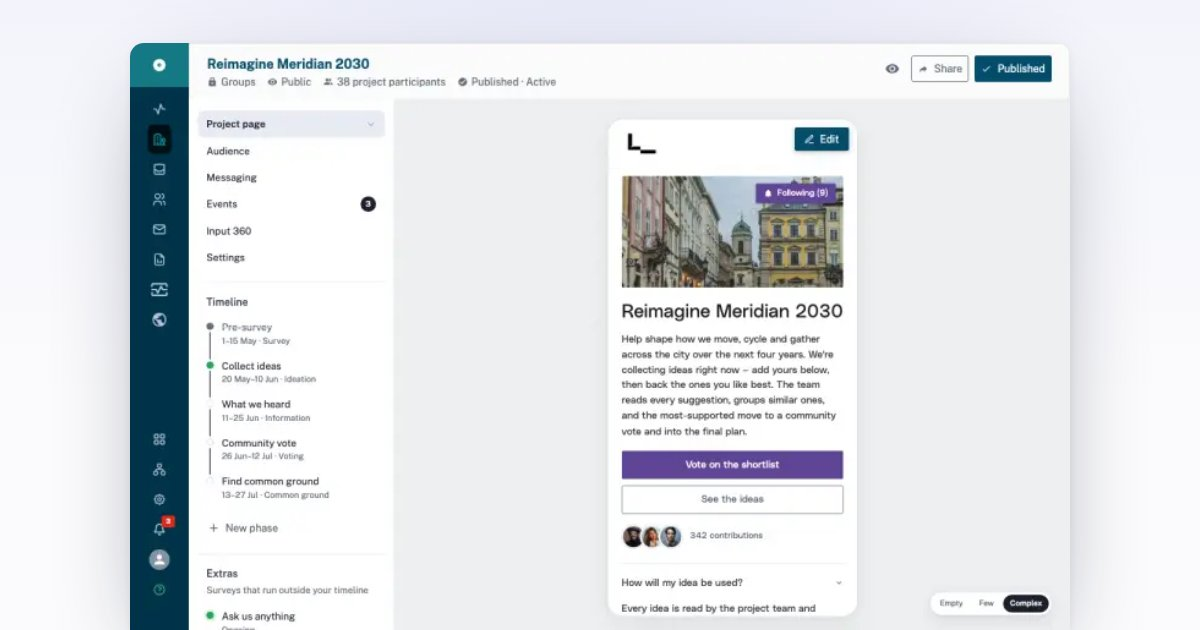
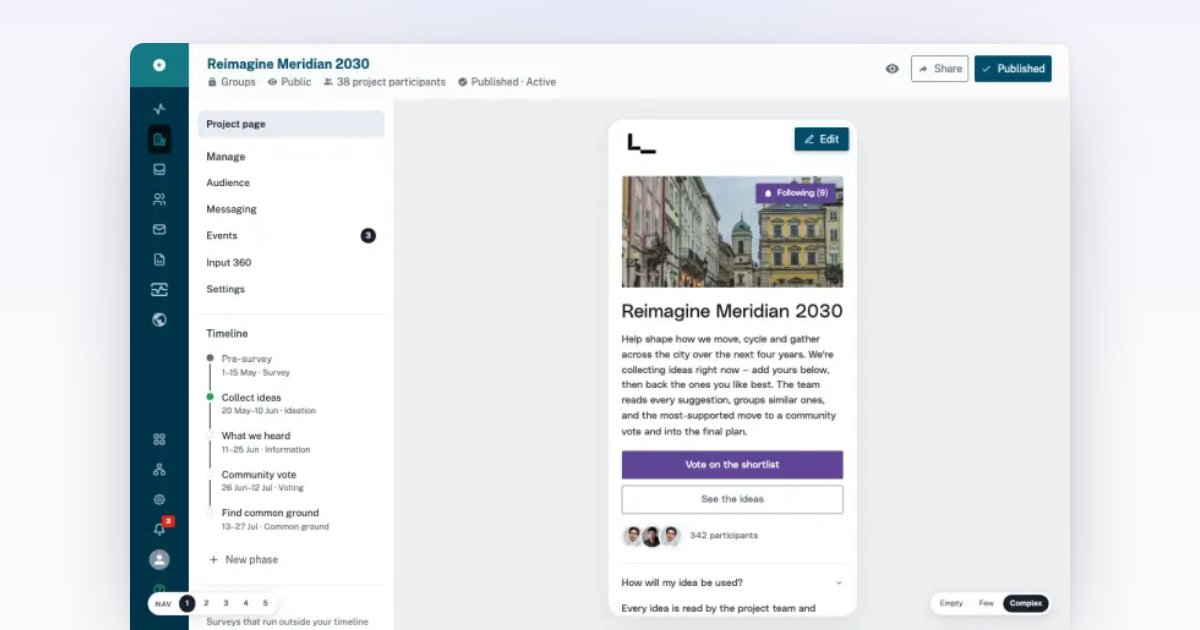
editor-builder-v3: NAV chip — 5 options for the overloaded "Project page" menu
Adds a bottom-left NAV switcher testing ways to fix the top-left project
menu, where "Project page" doubles as a destination and a chevron disclosure
that wrongly implies Audience/Messaging/Events/Input 360/Settings are its
children (they're peer Layer-2 project tabs). No icons, no new visuals — each
option only re-groups/re-labels/discloses:
  1 Manage label (default, recommended) · 2 Project header · 3 Manage collapsible
  · 4 Indented · 5 Current. Peer headings collapse with their group on a phase.

diff --git a/parallel-participation/prototypes/parallel-editor-builder-v3/index.html b/parallel-participation/prototypes/parallel-editor-builder-v3/index.html
@@ -1164,6 +1164,68 @@
   /* Compact STATE chip (label removed): smaller pill + tighter buttons. */
   .state-chip { padding: 3px 4px; gap: 4px; font-size: 10.5px; }
 
+  /* ============ NAV-architecture explorer (the project-nav block, 5 options) ============
+     The developer questioned the top-left project menu: "Project page" is overloaded — a
+     destination AND a disclosure header whose ▼ implies Audience/Messaging/Events/Input
+     360/Settings are its *children*. They're not: per the BO architecture they're peer
+     Layer-2 project tabs (General/Timeline/Audience/Messaging/Events/360 Input). These five
+     options test ways to fix the false hierarchy WITHOUT adding icons or new visuals — they
+     only re-group, re-label, or disclose. Driven by data-nav-mode on #proj-nav (see setNavMode).
+     1 Manage label · 2 Project header · 3 Manage (collapsible) · 4 Indented · 5 Current. */
+  .nav-head { display: none; }                          /* Manage/Project headings off by default */
+  .nav-head--manage { margin-top: 16px; }               /* breathing room above the tab group */
+  .manage-chevron { display: none; width: 13px; height: 13px; margin-left: auto;
+                    color: #5b6573; transition: transform .15s ease; transform: rotate(-90deg); }
+  /* default (modes 4 & 5): the Project-page chevron shows, no indent */
+  #proj-nav .nav-chevron { display: inline-block; }
+  #proj-nav #project-utilities .side-item { transition: padding .15s ease; }
+
+  /* 1 — "Manage" labels the five tabs as a peer section (like Timeline/Extras); Project page
+     is a standalone anchor. Honest peers, consistent grammar, no chevron. (Recommended.) */
+  #proj-nav[data-nav-mode="1"] .nav-head--manage { display: block; }
+  #proj-nav[data-nav-mode="1"] .nav-chevron { display: none; }
+
+  /* 2 — one "Project" header over all six destinations, flat. Minimal, single grammar. */
+  #proj-nav[data-nav-mode="2"] .nav-head--project { display: block; }
+  #proj-nav[data-nav-mode="2"] .nav-chevron { display: none; }
+
+  /* 3 — collapsible "Manage" group: progressive disclosure. Daily driver sees page + timeline;
+     the five admin tabs tuck away until needed. Chevron now belongs to a real parent. */
+  #proj-nav[data-nav-mode="3"] .nav-head--manage { display: flex; align-items: center; cursor: pointer; }
+  #proj-nav[data-nav-mode="3"] .nav-head--manage:hover { color: #1a1f2c; }
+  #proj-nav[data-nav-mode="3"] .manage-chevron { display: inline-block; }
+  #proj-nav[data-nav-mode="3"] .nav-chevron { display: none; }
+
+  /* 4 — indent the five under Project page: commit to the chevron's literal child reading. */
+  #proj-nav[data-nav-mode="4"] #project-utilities .side-item { padding-left: 26px; }
+
+  /* 5 — current: defaults above already reproduce today's chevron disclosure. */
+
+  /* On a phase, the peer headings (1 & 2) collapse with their group; mode 3 keeps its toggle. */
+  #proj-nav[data-context="phase"][data-nav-mode="1"] .nav-head--manage,
+  #proj-nav[data-context="phase"][data-nav-mode="2"] .nav-head--project { display: none; }
+
+  /* The NAV chip — same quiet pill as STATE, parked bottom-LEFT so it can't collide with the
+     bottom-right STATE chip. Numbered buttons (names in title=) per the switcher convention. */
+  .nav-chip {
+    position: fixed; bottom: 20px; left: 24px; z-index: 30;
+    display: inline-flex; align-items: center; gap: 4px;
+    padding: 3px 5px; background: #fff;
+    border: 1px solid var(--border); border-radius: 999px; font-size: 10.5px;
+    box-shadow: 0 6px 20px rgba(20,25,40,.10), 0 2px 4px rgba(20,25,40,.04);
+  }
+  .nav-chip .label {
+    padding: 0 6px 0 4px; color: #5b6573; letter-spacing: .06em;
+    font-size: 10px; font-weight: 700; text-transform: uppercase;
+  }
+  .nav-chip button {
+    min-width: 22px; padding: 4px 8px; border-radius: 999px;
+    color: #4b5563; font-weight: 600;
+    transition: background .12s ease, color .12s ease;
+  }
+  .nav-chip button:hover { background: #f4f6fa; }
+  .nav-chip button.on { background: #1a1f2c; color: #fff; }
+
   /* v3 commits to one treatment for a survey that's created but not added to the project
      (reachable only by direct URL): a text-only "Not on the project page" tag on the meta
      line (lifecycle dot untouched) with a hover explaining the fix (was explorer #4 in v2,
@@ -2173,18 +2235,29 @@
     <!-- Left side panel: project + phases -->
     <section class="flex flex-col bg-white border-r border-gray-200" style="width:280px;">
       <!-- nav -->
-      <div class="flex-1 overflow-y-auto px-3 py-4">
+      <div id="proj-nav" class="flex-1 overflow-y-auto px-3 py-4" data-nav-mode="1">
 
-        <!-- Project page — always shown (acts as "back to project" when on a phase) -->
         <!-- Text-led project menu (committed direction): no icons — labels carry the meaning.
              The icon-only blue rail keeps its icons (it has no labels). Explorer with all the
-             icon directions lives on parallel-editor-builder-v2. -->
+             icon directions lives on parallel-editor-builder-v2.
+             The NAV chip (bottom-left) swaps how this block is grouped — see setNavMode. -->
+
+        <!-- mode 2: one header over all six project destinations -->
+        <div class="sec-head nav-head nav-head--project">Project</div>
+
+        <!-- Project page — the public-facing destination (also "back to project" from a phase) -->
         <div class="side-item active" data-view="project" onclick="setView('project', this)">
           <span class="flex-1">Project page</span>
-          <svg id="project-chevron" class="nav-icon" style="width:14px;height:14px;color:#5b6573;transition:transform .15s ease;" viewBox="0 0 24 24"><polyline points="6 9 12 15 18 9"/></svg>
+          <svg id="project-chevron" class="nav-icon nav-chevron" style="width:14px;height:14px;color:#5b6573;transition:transform .15s ease;" viewBox="0 0 24 24"><polyline points="6 9 12 15 18 9"/></svg>
         </div>
 
-        <!-- Project utilities — hidden on phase view (original side nav) -->
+        <!-- modes 1 & 3: "Manage" groups the back-office tabs below the page -->
+        <div class="sec-head nav-head nav-head--manage" id="manage-head" onclick="toggleManage()">
+          <span>Manage</span>
+          <svg class="nav-icon manage-chevron" viewBox="0 0 24 24"><polyline points="6 9 12 15 18 9"/></svg>
+        </div>
+
+        <!-- Project utilities — Layer-2 project tabs; hidden on phase view (original side nav) -->
         <div id="project-utilities">
           <div id="audience-nav" class="side-item" data-view="audience" onclick="setView('audience', this)">
             Audience
@@ -4297,6 +4370,12 @@
     document.querySelectorAll('[data-view]').forEach(n => n.classList.remove('active'));
     if (el) el.classList.add('active');
 
+    // Tell the nav-architecture CSS whether we're in a project-level or phase context, so the
+    // peer "Manage"/"Project" headings (modes 1–2) collapse with their group on a phase.
+    const navEl = document.getElementById('proj-nav');
+    if (navEl) navEl.setAttribute('data-context',
+      (view === 'phase' || view === 'add-phase' || view === 'add-survey') ? 'phase' : 'project');
+
     const projectView = document.getElementById('view-project');
     const phaseView = document.getElementById('view-phase');
     const addPhaseView = document.getElementById('view-add-phase');
@@ -4352,6 +4431,42 @@
       projectChevron.style.transform = 'rotate(0deg)';
     }
   }
+
+  // ===== NAV-architecture explorer (the bottom-left NAV chip) =====
+  // Swaps how the project-nav block is grouped. CSS does the re-grouping off data-nav-mode;
+  // this only flips the attribute, manages mode 3's collapse, and resets to the project view
+  // so every option is compared on the same screen.
+  function setNavMode(n, btn) {
+    document.querySelectorAll('.nav-chip button').forEach(b => b.classList.remove('on'));
+    if (btn) btn.classList.add('on');
+
+    const nav = document.getElementById('proj-nav');
+    nav.setAttribute('data-nav-mode', String(n));
+
+    // Compare apples to apples — return to the project view (also clears any phase-collapse).
+    const projItem = document.querySelector('.side-item[data-view="project"]');
+    setView('project', projItem);
+
+    // Mode 3 is the only one where the tabs start hidden behind the "Manage" toggle.
+    const utils = document.getElementById('project-utilities');
+    const mch = document.querySelector('.manage-chevron');
+    if (n === 3) {
+      utils.classList.add('collapsed');
+      if (mch) mch.style.transform = 'rotate(-90deg)';
+    } else {
+      utils.classList.remove('collapsed');
+    }
+  }
+
+  // Mode 3 only: the "Manage" heading is a real disclosure for the five admin tabs.
+  function toggleManage() {
+    const nav = document.getElementById('proj-nav');
+    if (nav.getAttribute('data-nav-mode') !== '3') return;   // inert label in other modes
+    const utils = document.getElementById('project-utilities');
+    const collapsed = utils.classList.toggle('collapsed');
+    const mch = document.querySelector('.manage-chevron');
+    if (mch) mch.style.transform = collapsed ? 'rotate(-90deg)' : 'rotate(0deg)';
+  }
 </script>
 
 
@@ -4382,6 +4497,18 @@
   <button data-state="empty" onclick="setProjectState('empty', this)">Empty</button>
   <button data-state="few" onclick="setProjectState('few', this)">Few</button>
   <button data-state="complex" class="on" onclick="setProjectState('complex', this)">Complex</button>
+</div>
+
+<!-- ============ NAV-architecture explorer — compact, bottom-LEFT ============
+     Tests 5 ways to resolve the overloaded "Project page" menu (see the CSS block / setNavMode).
+     Numbered to keep button widths stable; each option's name is in its title= tooltip. -->
+<div class="nav-chip" role="group" aria-label="Project-nav architecture">
+  <span class="label">Nav</span>
+  <button class="on" title="1 · Manage label — Project page stands alone; a quiet 'Manage' heading groups the five tabs as a peer section (like Timeline/Extras). No chevron. Recommended." onclick="setNavMode(1, this)">1</button>
+  <button title="2 · Project header — one 'Project' heading over all six destinations, flat. Minimal, single grammar." onclick="setNavMode(2, this)">2</button>
+  <button title="3 · Manage, collapsible — progressive disclosure: the five admin tabs tuck away under a 'Manage' toggle; daily driver sees page + timeline." onclick="setNavMode(3, this)">3</button>
+  <button title="4 · Indented — commit to the chevron's literal reading: indent the five as children of Project page." onclick="setNavMode(4, this)">4</button>
+  <button title="5 · Current — today's chevron disclosure on Project page, unchanged (baseline)." onclick="setNavMode(5, this)">5</button>
 </div>
 
 <!-- v3 has no hidden-survey switcher — it commits to the "Not on the project page" treatment (v2 #4). -->
